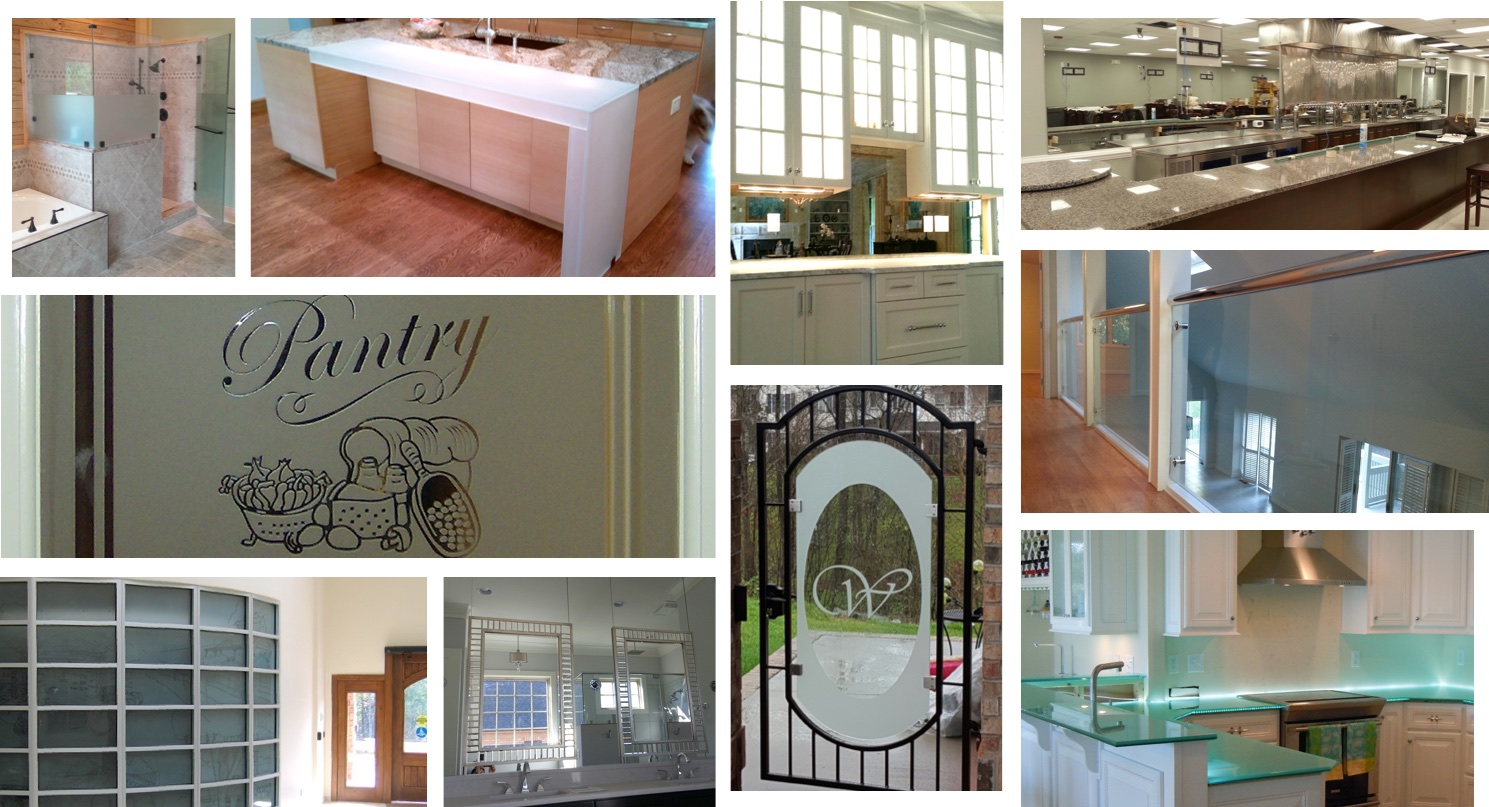
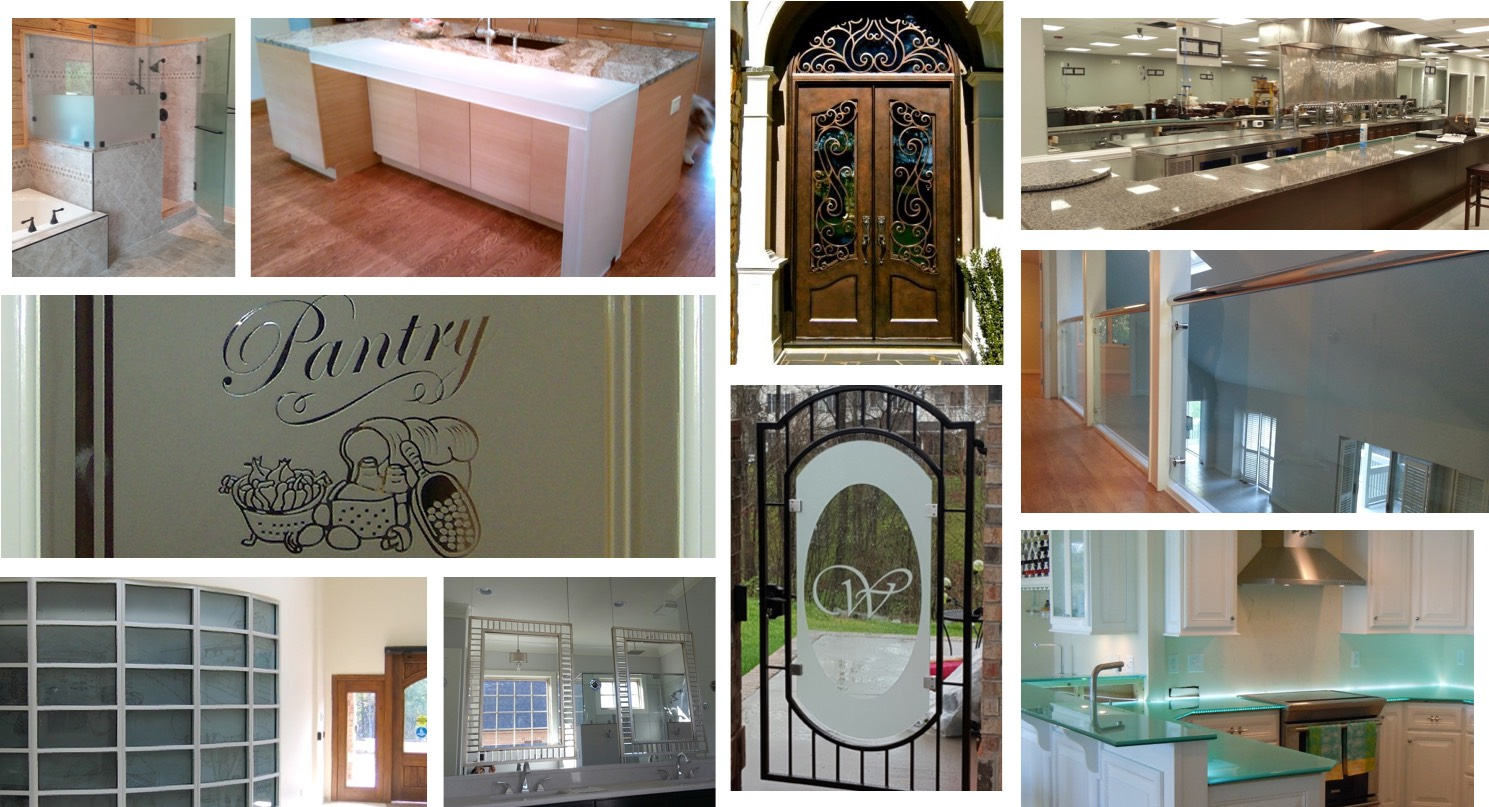
Inspiration and gallery archive image changes

Changed region(s): [[0.4634, 0.0, 0.6797, 0.4647]]

diff --git a/wp-content/themes/clearlight-sage/resources/views/archive-gallery.blade.php b/wp-content/themes/clearlight-sage/resources/views/archive-gallery.blade.php
@@ -22,7 +22,7 @@
           @include('partials.card-image', [
             'cards'     => [
               [
-                'img'   => $img['sizes']['thumbnail'],
+                'img'   => $img['sizes']['thumbnail2x'],
                 'title' => get_the_title(),
                 'link'  => get_permalink()
               ],

diff --git a/wp-content/themes/clearlight-sage/app/setup.php b/wp-content/themes/clearlight-sage/app/setup.php
@@ -80,6 +80,9 @@ add_action('after_setup_theme', function () {
      // Set up featured image sizes for interior page headers
      add_image_size('featured-banner', 1000, 300, true);
 
+     // Double sized thumbnails
+     add_image_size('thumbnail2x', 300, 300, true);
+
 }, 20);
 
 /**
